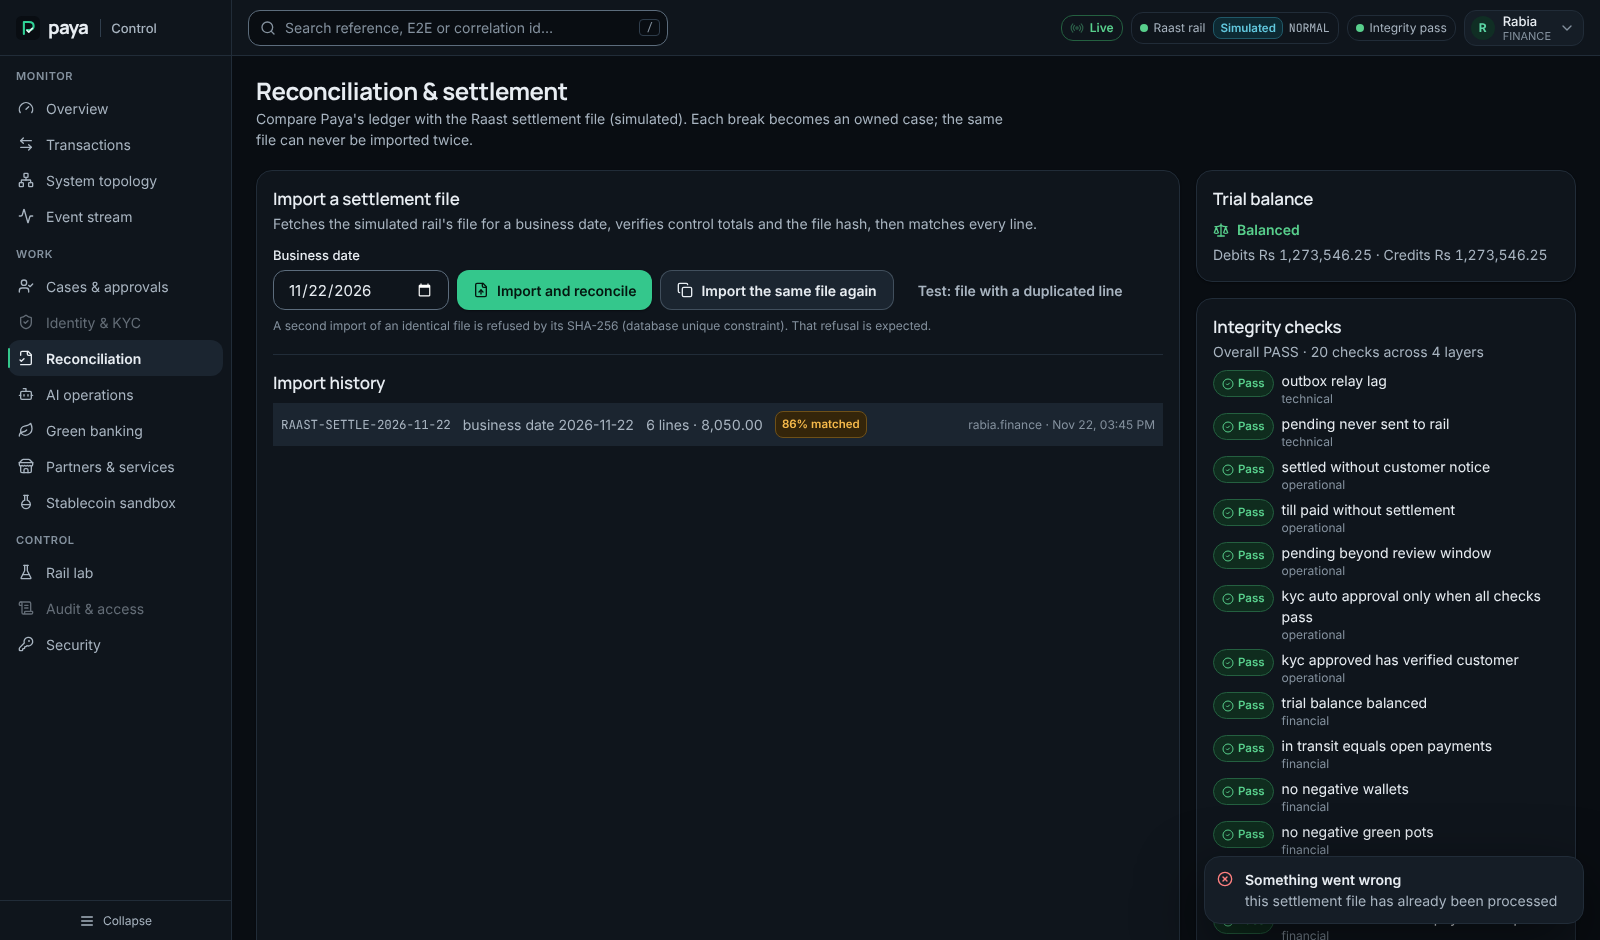
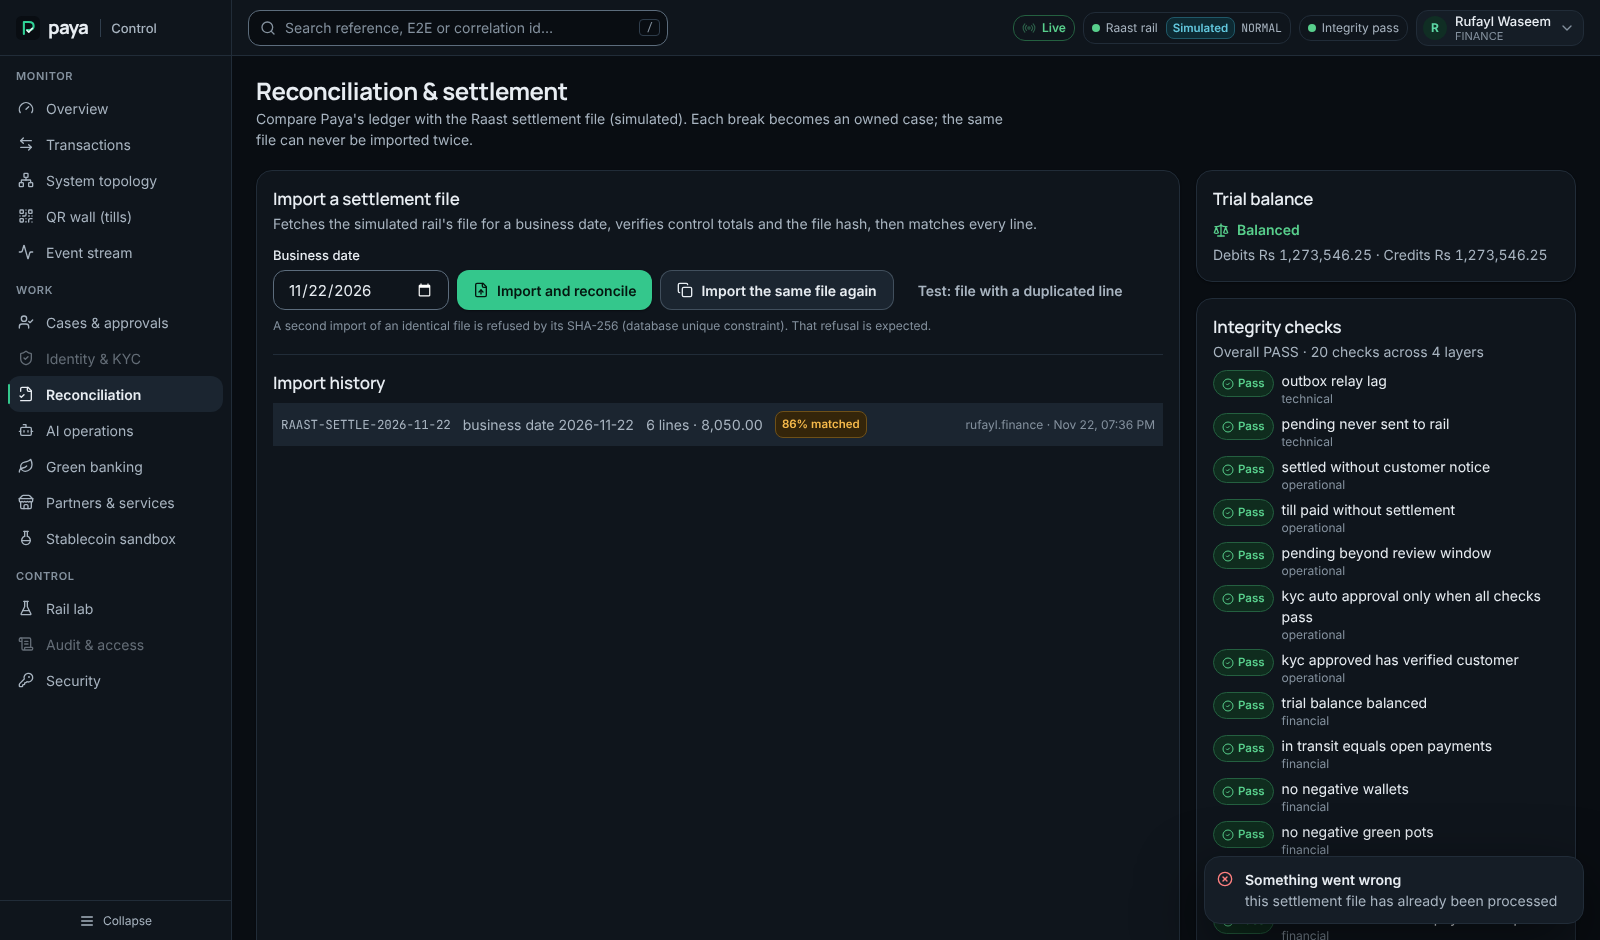
Topology: components no longer vanish a few seconds after opening
React Flow 12 drops a node's measured size whenever it receives a new node
object and hides the node until it is re-measured; with an unchanged size it
never is, so the map went blank after the first update (any live event). The
page now keeps the measurements from onNodesChange and passes them back.
Checked: nodes stay visible for 20 s and through a live settlement.

Also: shorter assistant placeholder (fields are 16px on phones now); demo
rehearsal re-run with the team's account names, 8/8 scenes pass (evidence and
scene screenshots refreshed).

Claude-Session: https://claude.ai/code/session_01SPxQEsynPDugZpe4AXo5HP

diff --git a/web/src/console/pages/Topology.tsx b/web/src/console/pages/Topology.tsx
@@ -4,7 +4,7 @@
 //   OBSERVED (runtime): telemetry this console actually received in the last 5 minutes.
 // A node is never shown as "healthy" because of a colour. With no telemetry it says so.
 import { BaseEdge, Background, BackgroundVariant, Controls, Handle, MiniMap, Position, ReactFlow, ReactFlowProvider, getBezierPath, useReactFlow,
-  type Edge, type EdgeProps, type Node, type NodeProps } from "@xyflow/react";
+  type Edge, type EdgeProps, type Node, type NodeChange, type NodeProps } from "@xyflow/react";
 import "@xyflow/react/dist/style.css";
 import { AnimatePresence, motion } from "framer-motion";
 import { Crosshair, Maximize2, X } from "lucide-react";
@@ -36,6 +36,13 @@ function Inner() {
   const [settled, setSettled] = useState<{ id: string; ref: string; amount: number; merchant: string; at: number }[]>([]);
   const [totals, setTotals] = useState({ n: 0, minor: 0 });
   const [glow, setGlow] = useState<Record<string, number>>({});
+  // React Flow 12 forgets a node's measured size when it receives a new node object and hides it until it is
+  // re-measured, which never happens if the size did not change. Keep the measurements and hand them back.
+  const [dims, setDims] = useState<Record<string, { width: number; height: number }>>({});
+  const onNodesChange = useCallback((chs: NodeChange[]) => {
+    const d = chs.filter((c): c is Extract<NodeChange, { type: "dimensions" }> => c.type === "dimensions" && !!(c as any).dimensions);
+    if (d.length) setDims((cur) => { const n = { ...cur }; d.forEach((c) => { n[c.id] = c.dimensions!; }); return n; });
+  }, []);
   const seq = useRef(0);
   const [, tick] = useState(0);
   useEffect(() => { const t = setInterval(() => tick((n) => n + 1), 5000); return () => clearInterval(t); }, []);
@@ -92,9 +99,9 @@ function Inner() {
   }, [selected]);
 
   const nodes: Node[] = useMemo(() => NODES.filter((n) => !hidden.has(NODE_INFO[n.id].layer)).map((n) => ({
-    id: n.id, type: "svc", position: { x: n.x, y: n.y }, selected: n.id === selected,
+    id: n.id, type: "svc", position: { x: n.x, y: n.y }, selected: n.id === selected, measured: dims[n.id],
     data: { def: n, obs: observed[n.id], glow: !!glow[n.id], dim: focus && neighbours ? !neighbours.has(n.id) : false, match: q && (n.title + n.sub).toLowerCase().includes(q.toLowerCase()) } as any,
-  })), [observed, hidden, selected, focus, neighbours, q, glow]);
+  })), [observed, hidden, selected, focus, neighbours, q, glow, dims]);
   const visible = new Set(nodes.map((n) => n.id));
   const edges: Edge[] = useMemo(() => EDGES.filter((e) => visible.has(e.source) && visible.has(e.target)).map((e) => ({
     id: e.id, source: e.source, target: e.target, type: "wire", sourceHandle: `s-${e.sh || "r"}`, targetHandle: `t-${e.th || "l"}`,
@@ -131,7 +138,7 @@ function Inner() {
 
       <div className="relative mt-3">
         <div className="relative h-[calc(100vh-230px)] min-h-[540px] overflow-hidden rounded-lg border border-line bg-sunken">
-          <ReactFlow nodes={nodes} edges={edges} nodeTypes={NODE_TYPES} edgeTypes={EDGE_TYPES} fitView fitViewOptions={{ padding: 0.03 }} minZoom={0.3} style={{ background: "transparent" }} maxZoom={1.8}
+          <ReactFlow nodes={nodes} edges={edges} onNodesChange={onNodesChange} nodeTypes={NODE_TYPES} edgeTypes={EDGE_TYPES} fitView fitViewOptions={{ padding: 0.03 }} minZoom={0.3} style={{ background: "transparent" }} maxZoom={1.8}
             nodesConnectable={false} proOptions={{ hideAttribution: true }} colorMode="dark" onNodeClick={(_, n) => setSelected(n.id)} onPaneClick={() => setSelected(null)}>
             <Background variant={BackgroundVariant.Dots} gap={24} size={1} color="rgba(255,255,255,0.06)" />
             <Controls showInteractive={false} position="bottom-left" />

diff --git a/web/src/wallet/Assistant.tsx b/web/src/wallet/Assistant.tsx
@@ -97,7 +97,7 @@ export default function Assistant({ user }: { user: string }) {
           <label htmlFor="chat-input" className="sr-only">Message the assistant</label>
           <textarea id="chat-input" rows={1} value={text} maxLength={500} onChange={(e) => setText(e.target.value)}
             onKeyDown={(e) => { if (e.key === "Enter" && !e.shiftKey) { e.preventDefault(); send(text); } }}
-            placeholder="Ask about your balance or a payment…" className="max-h-28 min-h-[44px] flex-1 resize-none rounded-md border border-line-control bg-canvas px-3 py-2.5 text-body text-fg outline-none placeholder:text-fg-muted focus:border-focus" />
+            placeholder="Ask Paya…" className="max-h-28 min-h-[44px] flex-1 resize-none rounded-md border border-line-control bg-canvas px-3 py-2.5 text-body text-fg outline-none placeholder:text-fg-muted focus:border-focus" />
           <button type="submit" disabled={!text.trim() || busy} aria-label="Send" className="grid h-11 w-11 shrink-0 place-items-center rounded-md bg-brand text-brand-fg disabled:opacity-40"><SendHorizontal className="h-5 w-5" /></button>
         </form>
         <p className="py-1.5 text-center text-[11.5px] text-fg-muted">Never share your PIN, OTP or password. Paya will never ask for them.</p>

diff --git a/evidence/demo/rehearsal-2026-11-22.md b/evidence/demo/rehearsal-2026-11-22.md
@@ -1,56 +1,56 @@
 # Demo rehearsal (Paya 2.0), 2026-11-22
 
-**Result: PASS** · 36 checks · automated run time 116 s (the live demo adds narration; script target about 10 min) · page errors: 0
+**Result: PASS** · 36 checks · automated run time 115 s (the live demo adds narration; script target about 10 min) · page errors: 0
 
 Generated by `docs/architecture/tools/demo_rehearsal.cjs` against the real stack on fresh synthetic data. Screenshots: `scene-*.png`.
 
-## 0. Set-up: Mission Control as Sana, till and wallet signed in (4.1 s)
+## 0. Set-up: Mission Control as Mudaser, till and wallet signed in (4.1 s)
 
-- PASS Mission Control is live as Sana
+- PASS Mission Control is live as Mudaser
 - PASS Raast rail badged as simulated
 - PASS till open
 - PASS Sara's wallet open
 
-## 1. Normal payment: review → authorise → Paid only after Raast; till PAID; evidence in Mission Control (8.6 s)
+## 1. Normal payment: review → authorise → Paid only after Raast; till PAID; evidence in Mission Control (8.3 s)
 
-- PASS ledger settles it (PAYA-20261122-7C2F51)
+- PASS ledger settles it (PAYA-20261122-1156FA)
 - PASS wallet says Paid
 - PASS till says PAID
 - PASS receipt shows the reference
 - PASS money trail from the ledger
 - PASS drawer shows AUTH_POST, SETTLE and FEE postings
 
-## 2. Lost request: stays Processing (also after reopening), then recovery settles it exactly once (12.2 s)
+## 2. Lost request: stays Processing (also after reopening), then recovery settles it exactly once (13.7 s)
 
 - PASS while PENDING the wallet says Processing, not Paid (PENDING/Processing)
 - PASS reopening still shows Processing (truth from the server)
-- PASS recovery agent settles it (PAYA-20261122-A0B5D4)
+- PASS recovery agent settles it (PAYA-20261122-A74F0F)
 - PASS exactly one SETTLE posting
 - PASS wallet turns Paid by itself
 
-## 3. Compliance hold: no money moves; Ops can't decide; Hamza releases with a reason (9.6 s)
+## 3. Compliance hold: no money moves; Ops can't decide; Kanz releases with a reason (9.5 s)
 
-- PASS payment is under review (PAYA-20261122-15E00C)
+- PASS payment is under review (PAYA-20261122-8E0C0E)
 - PASS no ledger posting while held
 - PASS Ops sees the case but cannot decide
 - PASS released payment settles
-- PASS Hamza's decision is in the audit trail
+- PASS Kanz's decision is in the audit trail
 
-## 4. Raast outage: breaker opens, 4th payment refused before any debit, recovery settles the rest (15.7 s)
+## 4. Raast outage: breaker opens, 4th payment refused before any debit, recovery settles the rest (15.6 s)
 
 - PASS 4th payment refused (RAIL_UNAVAILABLE) (Outage
 refused: Raast is unavailable right now; no money has been taken. Please )
 - PASS circuit breaker OPEN
-- PASS payments sent before the breaker opened settle exactly once (PAYA-20261122-F32287,PAYA-20261122-F6DF3C,PAYA-20261122-2ACD5C)
+- PASS payments sent before the breaker opened settle exactly once (PAYA-20261122-77E008,PAYA-20261122-9CCCCD,PAYA-20261122-B2F850)
 
-## 5. Reconciliation break → AI suggestion → owner resolves; same file refused (20.2 s)
+## 5. Reconciliation break → AI suggestion → owner resolves; same file refused (20.1 s)
 
-- PASS missing line becomes an owned case (MISSING_EXTERNAL → CASE-20261122-A2CA7F)
+- PASS missing line becomes an owned case (MISSING_EXTERNAL → CASE-20261122-6296E0)
 - PASS AI suggestion recorded (advisory)
 - PASS owner resolved it; suggestion accepted by a person
 - PASS same settlement file refused
 
-## 6. New themes: onboarding referral → two-person approval; Paya Assistant (42.5 s)
+## 6. New themes: onboarding referral → two-person approval; Paya Assistant (40.7 s)
 
 - PASS near-watch-list name referred, no tipping off
 - PASS same officer's confirmation refused by the server
@@ -59,8 +59,8 @@ refused: Raast is unavailable right now; no money has been taken. Please )
 - PASS Roman Urdu balance question answered from the ledger
 - PASS assistant cannot move money
 
-## 7. Evidence: audit chain intact, denials visible (as Auditor) (3.1 s)
+## 7. Evidence: audit chain intact, denials visible (as Auditor) (3.0 s)
 
 - PASS hash chain intact
-- PASS denials are recorded (e.g. Hamza's self-confirmation)
+- PASS denials are recorded (e.g. Kanz's self-confirmation)
 - PASS integrity checks have no FAIL (PASS)
